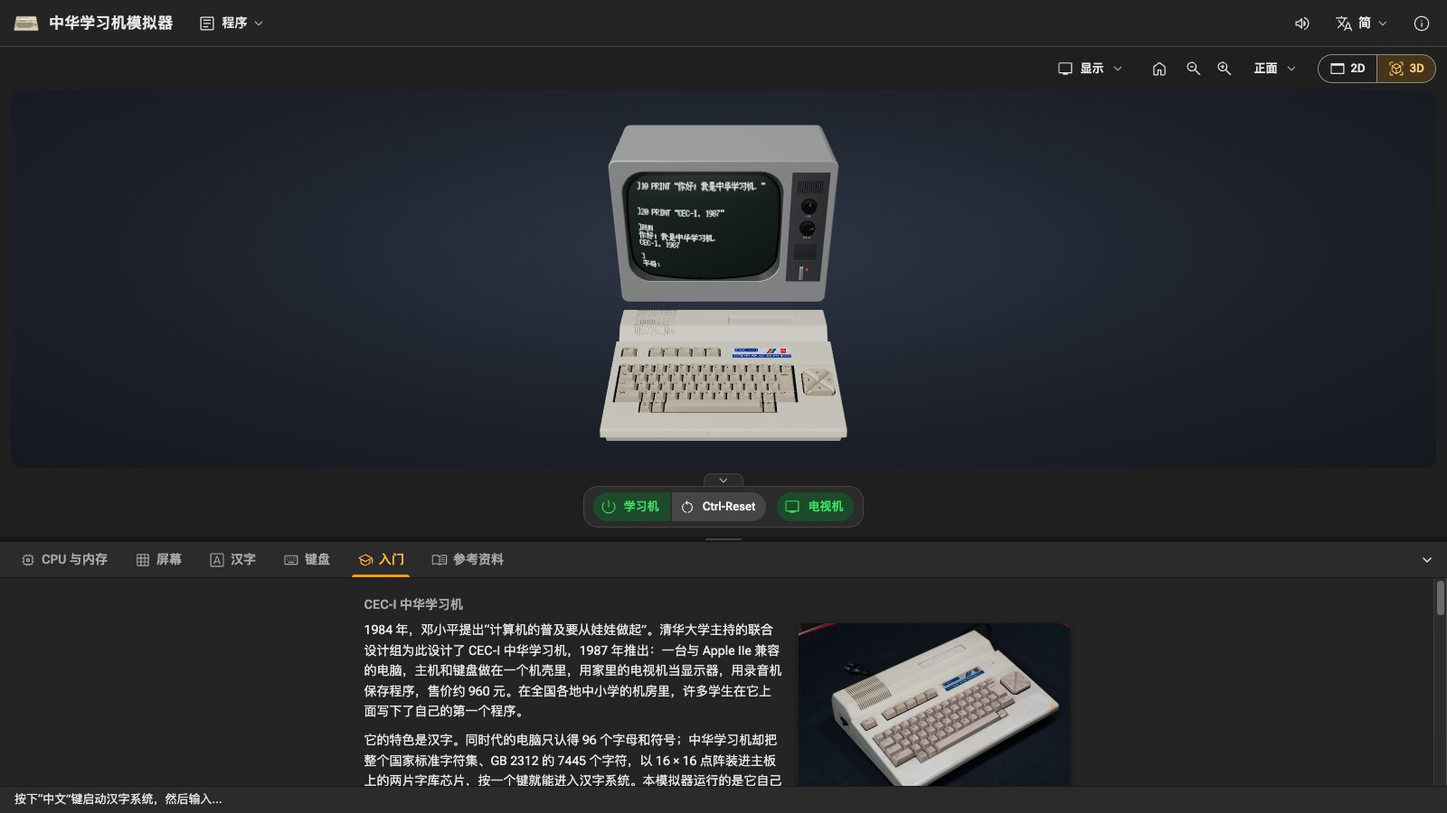
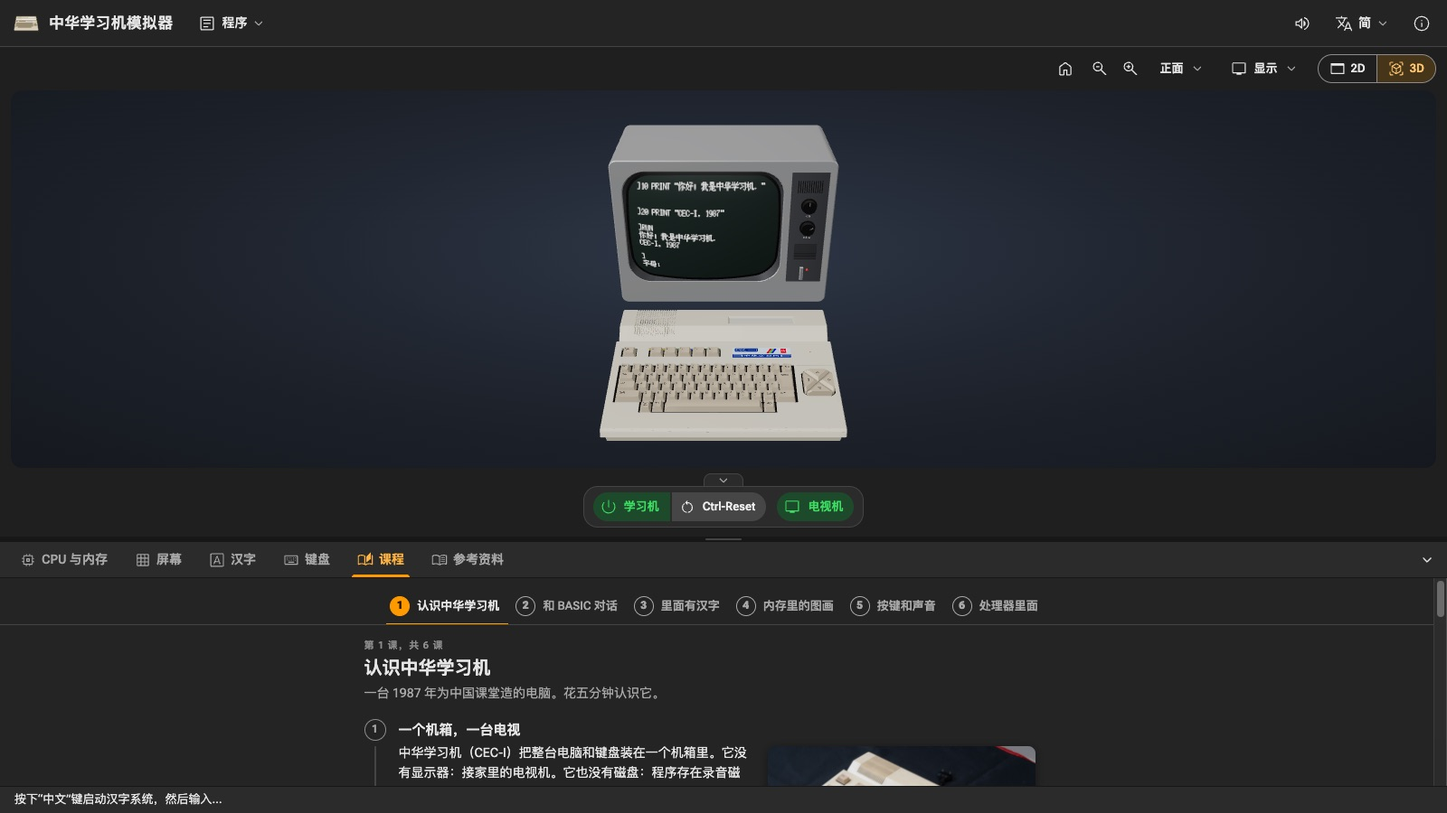
Lessons take the Start tab's place: its first minutes into Meet the CEC-I, its keys and Chinese input into References

Changed region(s): [[0.25, 0.6844, 0.75, 0.9644], [0.7188, 0.0622, 0.875, 0.0933]]

diff --git a/js/l10n/zh.js b/js/l10n/zh.js
@@ -95,7 +95,6 @@ export default {
   "strip.unfold": "展开辅助按钮条",
 
   // the dock
-  "dock.start": "入门",
   "dock.lessons": "课程",
   "lessons.bar": "课程",
   "lessons.of": "第 {n} 课，共 {of} 课",
@@ -111,39 +110,12 @@ export default {
   "lessons.closeTool": "关闭",
   "lessons.typing": "正在输入这一步的内容…",
   "lessons.toolAway": "这个仪表现在在课程旁边。",
-  "start.lessons": "开始上课",
   "dock.refs": "参考资料",
   "dock.resize": "拖动以调整面板高度",
   "dock.fold": "收起面板",
   "dock.unfold": "展开面板",
   "dialog.close": "关闭",
 
-  // the Start tab
-  "start.what.head": "CEC-I 中华学习机",
-  "start.photo": "一台 1987 年的中华学习机，本模拟器就是照着它测量建模的。",
-  "start.photo.alt": "从左前方看中华学习机：米白色机壳，键盘与主机一体，蓝红色铭牌、方向键面板和散热格栅",
-  "start.what": "1984 年，邓小平提出“计算机的普及要从娃娃做起”。清华大学主持的联合设计组为此设计了 CEC-I 中华学习机，1987 年推出：一台与 Apple IIe 兼容的电脑，主机和键盘做在一个机壳里，用家里的电视机当显示器，用录音机保存程序，售价约 960 元。在全国各地中小学的机房里，许多学生在它上面写下了自己的第一个程序。",
-  "start.what.2": "它的特色是汉字。同时代的电脑只认得 96 个字母和符号；中华学习机却把整个国家标准字符集、GB 2312 的 7445 个字符，以 16 × 16 点阵装进主板上的两片字库芯片，按一个键就能进入汉字系统。本模拟器运行的是它自己的 ROM，取自一台能正常工作的学习机。",
-  "start.first.head": "开始的几分钟",
-  "start.first.1": "学习机和电视机已经打开：屏幕显示 `ZHONG HUA XUE XI JI` 和 `VERSION 1.1`，然后是 BASIC 的提示符 `]`。如果没有，请按学习机下方按钮条上的“学习机”和“电视机”。",
-  "start.first.2": "输入 `PRINT \"HELLO\"`，按 [[Return]]（你键盘上的 [[Enter]]），学习机就会回答。",
-  "start.first.3": "按学习机的“中文”键（[[Page Up]] 或 [[Alt]]-[[Z]]）：汉字系统启动，屏幕换成汉字屏幕。“西文”键（[[Page Down]] 或 [[Alt]]-[[X]]）返回。",
-  "start.first.4": "写汉字：程序 ▸ 输入文字，粘贴 `10 PRINT \"你好，中华学习机\"` 和一行 `RUN`，再点“输入”。看着键盘把它打进去。",
-  "start.first.5": "用“学习机”按钮关机，再在 3D 视角菜单中选“拆开”：上盖、键盘和主板会按真实的顺序拆下来。",
-  "start.keys.head": "学习机的键在你的键盘上",
-  "start.keys.intro": "你的键盘就是学习机的键盘：字母、数字和符号都在原位，学习机特有的键放在电脑上多余的键上：",
-  "start.keys.machine": "中华学习机",
-  "start.keys.yours": "你的键盘",
-  "start.keys.or": "或者",
-  "start.keys.ctrl": "Ctrl-Reset（回到 BASIC，程序保留）是 [[Ctrl]]-[[F12]]；按住 [[Ctrl]] 和 [[End]] 再按 [[F12]] 是 Ctrl-Reset-TEST，即学习机的自检。在学习机的键上点击 Ctrl、Shift 和 TEST，它们会保持按下，直到按下一个键。",
-  "start.chinese.head": "八位机上的汉字",
-  "start.chinese.1": "在汉字状态下，[[F1]] 输入字母，[[F2]] 是拼音（输入音节，状态行上出现六个字，按数字选字；`<` 和 `>` 翻页），[[F3]] 是区位码：四位数字，即在 GB 2312 中的区号和位号，`1601` 是“啊”。",
-  "start.chinese.2": "在 BASIC 字符串里，一个汉字占三个字节：127，然后是区号和位号，各自错开 `\"`、`,` 和 `:` 三个字符。`LEN(\"中\")` 等于 3。",
-  "start.chinese.3": "回到西文状态，同一个字符串列出来是棋盘格和字母：`中` 是 `▒UO`。",
-  "start.chinese.4": "汉字屏幕就是高分辨率图形页，10 行，每行 17 个字，每个字都从字库芯片中按 16 × 16 点阵取出来画上去。",
-  "start.more.head": "使用手册",
-  "start.more": "学习机的四本书（用户使用手册、软件与硬件技术参考手册，以及一本讲原理和维修的书）已在 cec-i-docs 项目中整理成数字版：",
-  "start.more.link": "用户使用手册",
 
   // About
   "about.title": "关于",
@@ -165,6 +137,16 @@ export default {
   "about.close": "关闭",
 
   // References
+  "refs.keys": "学习机的键在你的键盘上",
+  "refs.keys.intro": "你的键盘就是学习机的键盘：字母、数字和符号都在原位，学习机特有的键放在电脑上多余的键上：",
+  "refs.keys.machine": "中华学习机",
+  "refs.keys.yours": "你的键盘",
+  "refs.keys.or": "或者",
+  "refs.keys.ctrl": "Ctrl-Reset（回到 BASIC，程序保留）是 [[Ctrl]]-[[F12]]；按住 [[Ctrl]] 和 [[End]] 再按 [[F12]] 是 Ctrl-Reset-TEST，即学习机的自检。在学习机的键上点击 Ctrl、Shift 和 TEST，它们会保持按下，直到按下一个键。",
+  "refs.chinese": "八位机上的汉字",
+  "refs.chinese.1": "在汉字状态下，[[F1]] 输入字母，[[F2]] 是拼音（输入音节，状态行上出现六个字，按数字选字；`<` 和 `>` 翻页），[[F3]] 是区位码：四位数字，即在 GB 2312 中的区号和位号，`1601` 是“啊”。",
+  "refs.chinese.2": "在西文状态下列出程序，汉字字符串显示成棋盘格和字母，一个字三个字节：`中` 是 `▒UO`。",
+  "refs.chinese.3": "汉字屏幕就是高分辨率图形页，10 行，每行 17 个字，每个字都从字库芯片中按 16 × 16 点阵取出来画上去。",
   "refs.reading": "延伸阅读",
   "refs.read.docs": "中华学习机四本书的数字版（cec-i-docs）",
   "refs.read.manual": "《CEC-I 型中华学习机用户使用手册》（1988）",

diff --git a/js/l10n/en.js b/js/l10n/en.js
@@ -96,7 +96,6 @@ export default {
   "strip.unfold": "Show the helper strip",
 
   // the dock
-  "dock.start": "Start",
   "dock.lessons": "Lessons",
   "lessons.bar": "The lessons",
   "lessons.of": "Lesson {n} of {of}",
@@ -112,39 +111,12 @@ export default {
   "lessons.closeTool": "Close",
   "lessons.typing": "Typing the step's line in…",
   "lessons.toolAway": "This instrument is beside the lesson now.",
-  "start.lessons": "Begin the lessons",
   "dock.refs": "References",
   "dock.resize": "Drag to resize the dock",
   "dock.fold": "Fold the dock",
   "dock.unfold": "Open the dock",
   "dialog.close": "Close",
 
-  // the Start tab
-  "start.what.head": "The CEC-I 中华学习机",
-  "start.photo": "A CEC-I of 1987, the machine this simulator was measured from.",
-  "start.photo.alt": "The CEC-I from the front left: an off-white case with its keyboard built in, a blue and red nameplate, an arrow-key panel and a grille",
-  "start.what": "In 1984 Deng Xiaoping said that the popularisation of computers should start with children. In answer, a design group led by Tsinghua University made the CEC-I, the China Educational Computer, launched in 1987: an Apple IIe compatible built into one box with its keyboard, using a home TV as its screen and a cassette recorder to keep programs, for about 960 yuan. In school computer rooms across China, students wrote their first programs on it.",
-  "start.what.2": "Its own idea is Chinese. A computer of the time knew 96 letters and signs; the CEC-I carries the whole national character set, GB 2312's 7,445 characters, as 16 × 16 dots in two font chips on its main board, and a Chinese system that starts at the press of a key. This simulator runs its own ROMs, those of a working machine.",
-  "start.first.head": "Your first minutes",
-  "start.first.1": "The computer and the TV are on: the screen shows `ZHONG HUA XUE XI JI` and `VERSION 1.1`, then BASIC's prompt `]`. If not, press Computer and TV on the strip under the machine.",
-  "start.first.2": "Type `PRINT \"HELLO\"` and press [[Return]] (your [[Enter]]). The computer answers.",
-  "start.first.3": "Press the machine's 中文 key ([[Page Up]], or [[Alt]]-[[Z]]): the Chinese system starts, and the screen turns to its own. 西文 ([[Page Down]], or [[Alt]]-[[X]]) goes back.",
-  "start.first.4": "Write Chinese: Programs ▸ Type in, paste `10 PRINT \"你好，中华学习机\"` and a line `RUN`, then Type it in. Watch the keys type it.",
-  "start.first.5": "Switch it off with Computer, and choose Taken apart from the views (3D): the lid, the keyboard and the main board come out in the real order.",
-  "start.keys.head": "The machine's keys on yours",
-  "start.keys.intro": "Your keyboard is the CEC-I's: letters, digits and signs where they are, and its own keys on keys a PC has to spare:",
-  "start.keys.machine": "The CEC-I",
-  "start.keys.yours": "Your keyboard",
-  "start.keys.or": "Or",
-  "start.keys.ctrl": "Ctrl-Reset (back to BASIC, the program kept) is [[Ctrl]]-[[F12]]; hold [[Ctrl]] and [[End]] and press [[F12]] for Ctrl-Reset-TEST, the machine's self-test. Ctrl, Shift and TEST clicked on the machine's own keys stay down for the next key.",
-  "start.chinese.head": "Chinese on an 8-bit machine",
-  "start.chinese.1": "In Chinese mode, [[F1]] types letters, [[F2]] pinyin (type the syllable, then a digit picks one of six characters shown on the status line; `<` and `>` page), [[F3]] 区位 (quwei): four digits, the row and the place in GB 2312, `1601` for 啊.",
-  "start.chinese.2": "In a BASIC string a Chinese character is three bytes: 127, then its row and its place, each moved past `\"`, `,` and `:`. `LEN(\"中\")` is 3.",
-  "start.chinese.3": "Back in Western mode, the same string lists as checkerboards and letters: `中` is `▒UO`.",
-  "start.chinese.4": "The Chinese screen is the hi-res page, 10 lines of 17 characters, each drawn from the font chips 16 × 16 dots at a time.",
-  "start.more.head": "The manuals",
-  "start.more": "The machine's four books (the user manual, the software and hardware references, and a book on its principles and repair) are transcribed in the cec-i-docs project:",
-  "start.more.link": "the user manual",
 
   // About
   "about.title": "About",
@@ -166,6 +138,16 @@ export default {
   "about.close": "Close",
 
   // References
+  "refs.keys": "The machine's keys on yours",
+  "refs.keys.intro": "Your keyboard is the CEC-I's: letters, digits and signs where they are, and its own keys on keys a PC has to spare:",
+  "refs.keys.machine": "The CEC-I",
+  "refs.keys.yours": "Your keyboard",
+  "refs.keys.or": "Or",
+  "refs.keys.ctrl": "Ctrl-Reset (back to BASIC, the program kept) is [[Ctrl]]-[[F12]]; hold [[Ctrl]] and [[End]] and press [[F12]] for Ctrl-Reset-TEST, the machine's self-test. Ctrl, Shift and TEST clicked on the machine's own keys stay down for the next key.",
+  "refs.chinese": "Chinese on an 8-bit machine",
+  "refs.chinese.1": "In Chinese mode, [[F1]] types letters, [[F2]] pinyin (type the syllable, then a digit picks one of six characters shown on the status line; `<` and `>` page), [[F3]] 区位 (quwei): four digits, the row and the place in GB 2312, `1601` for 啊.",
+  "refs.chinese.2": "In a listing in Western mode, a Chinese string shows as checkerboards and letters, its three bytes a character: `中` is `▒UO`.",
+  "refs.chinese.3": "The Chinese screen is the hi-res page, 10 lines of 17 characters, each drawn from the font chips 16 × 16 dots at a time.",
   "refs.reading": "Further reading",
   "refs.read.docs": "The CEC-I's four books, transcribed (cec-i-docs)",
   "refs.read.manual": "The CEC-I user manual (1988), in Chinese",

diff --git a/js/l10n/lessons.en.js b/js/l10n/lessons.en.js
@@ -8,15 +8,16 @@ export default {
   "lesson.meet.title": "Meet the CEC-I",
   "lesson.meet.lead": "A computer from 1987, made for China's classrooms. Five minutes to get to know it.",
   "lesson.meet.machine.title": "One box, and a TV",
-  "lesson.meet.machine.text": "The CEC-I (中华学习机) is a whole computer in one box with its keyboard. There is no screen: you plug it into a home TV. There is no disk either: programs were kept on cassette tapes.",
-  "lesson.meet.machine.more": "In 1987 it cost about 960 yuan, a few months' pay. Schools bought it by the roomful: for many Chinese students it was the first computer they ever touched.",
+  "lesson.meet.machine.text": "The CEC-I (中华学习机), the China Educational Computer, is a whole computer in one box with its keyboard. There is no screen: you plug it into a home TV. There is no disk either: programs were kept on cassette tapes.",
+  "lesson.meet.machine.more": "In 1984 Deng Xiaoping said that computers should start with children. A design group led by Tsinghua University answered with the CEC-I, launched in 1987 for about 960 yuan, a few months' pay. Schools bought it by the roomful: for many Chinese students it was the first computer they touched. It is an Apple IIe compatible, and this simulator runs its own ROMs, from a working machine.",
   "lesson.meet.on.title": "Switch on",
-  "lesson.meet.on.text": "Press **Ctrl-Reset** (in the strip under the machine, or Ctrl and F12). A beep, `ZHONG HUA XUE XI JI`, and then `]`: BASIC is waiting for you. There is no desktop and no mouse: you talk to it by typing.",
+  "lesson.meet.on.text": "Press **Ctrl-Reset** (in the strip under the machine, or Ctrl and F12; if the screen is dark, press **Computer** and **TV** there first). A beep, `ZHONG HUA XUE XI JI`, and then `]`: BASIC is waiting for you. There is no desktop and no mouse: you talk to it by typing.",
+  "lesson.meet.on.more": "Your keyboard is the CEC-I's: letters, digits and signs where they are, and the machine's own keys, such as 中文 and Ctrl-Reset, on keys a PC has to spare. References lists them.",
   "lesson.meet.tv.title": "The TV is the screen",
   "lesson.meet.tv.text": "40 letters across, 24 lines down. Try **Display** above the picture: the same computer on a colour TV, a black-and-white TV or a green monitor, whatever a school had.",
   "lesson.meet.inside.title": "Look inside",
   "lesson.meet.inside.text": "One board does everything. The chips **light up** as they work: the 6502 processor, the memory, and two big **font chips** holding every Chinese character the computer can show.",
-  "lesson.meet.inside.more": "The 6502 is the same kind of processor as in the Apple II and early game consoles. It does about a million simple steps a second; your phone does billions.",
+  "lesson.meet.inside.more": "The 6502 is the same kind of processor as in the Apple II and early game consoles. It does about a million simple steps a second; your phone does billions. Switch the computer off and choose **Taken apart** from the views: the lid, the keyboard and the main board come out in the real order.",
   "lesson.meet.play.title": "Play first",
   "lesson.meet.play.text": "Programs were typed in from magazines and books. Let the simulator type one for you, and play: steer with the arrows.",
 

diff --git a/js/l10n/lessons.zh.js b/js/l10n/lessons.zh.js
@@ -7,14 +7,15 @@ export default {
   "lesson.meet.lead": "一台 1987 年为中国课堂造的电脑。花五分钟认识它。",
   "lesson.meet.machine.title": "一个机箱，一台电视",
   "lesson.meet.machine.text": "中华学习机（CEC-I）把整台电脑和键盘装在一个机箱里。它没有显示器：接家里的电视机。它也没有磁盘：程序存在录音磁带上。",
-  "lesson.meet.machine.more": "1987 年它卖大约 960 元，是好几个月的工资。学校成批地买来装满机房：对许多中国学生来说，这是他们摸到的第一台电脑。",
+  "lesson.meet.machine.more": "1984 年，邓小平提出“计算机的普及要从娃娃做起”。清华大学主持的设计组为此设计了中华学习机，1987 年推出，售价约 960 元，是好几个月的工资。学校成批地买来装满机房：对许多中国学生来说，这是他们摸到的第一台电脑。它与 Apple IIe 兼容；本模拟器运行的是它自己的 ROM，取自一台能正常工作的学习机。",
   "lesson.meet.on.title": "开机",
-  "lesson.meet.on.text": "按 **Ctrl-Reset**（机器下方按钮条上的按钮，或 Ctrl 加 F12）。“嘀”的一声，`ZHONG HUA XUE XI JI`，然后是 `]`：BASIC 在等你。没有桌面，也没有鼠标：你要靠打字和它说话。",
+  "lesson.meet.on.text": "按 **Ctrl-Reset**（机器下方按钮条上的按钮，或 Ctrl 加 F12；如果屏幕是黑的，先按那里的 **学习机** 和 **电视机**）。“嘀”的一声，`ZHONG HUA XUE XI JI`，然后是 `]`：BASIC 在等你。没有桌面，也没有鼠标：你要靠打字和它说话。",
+  "lesson.meet.on.more": "你的键盘就是学习机的键盘：字母、数字和符号都在原位，学习机特有的键，比如“中文”和 Ctrl-Reset，放在电脑上多余的键上。“参考资料”里有完整的对照表。",
   "lesson.meet.tv.title": "电视就是屏幕",
   "lesson.meet.tv.text": "每行 40 个字母，共 24 行。试试画面上方的 **显示**：同一台电脑接彩电、黑白电视或绿色显示器，学校有什么就接什么。",
   "lesson.meet.inside.title": "打开看看",
   "lesson.meet.inside.text": "一块电路板包办一切。芯片工作时会**亮起来**：6502 处理器、内存，还有两块大大的**字库芯片**，里面装着它能显示的每一个汉字。",
-  "lesson.meet.inside.more": "6502 和 Apple II、早期游戏机用的是同一种处理器。它每秒做大约一百万个简单步骤；你的手机每秒做几十亿个。",
+  "lesson.meet.inside.more": "6502 和 Apple II、早期游戏机用的是同一种处理器。它每秒做大约一百万个简单步骤；你的手机每秒做几十亿个。关掉学习机，在视角菜单中选 **拆开**：上盖、键盘和主板会按真实的顺序拆下来。",
   "lesson.meet.play.title": "先玩一下",
   "lesson.meet.play.text": "那时的程序是从杂志和书上一个字一个字敲进去的。让模拟器替你敲一个，然后玩：用方向键操纵。",
 

diff --git a/css/style.css b/css/style.css
@@ -30,7 +30,7 @@ body {
   -webkit-tap-highlight-color: transparent;
 }
 [hidden] { display: none !important; }
-.start, .references, .dialog-body, #status { user-select: text; -webkit-user-select: text; }
+.references, .dialog-body, #status { user-select: text; -webkit-user-select: text; }
 button, input, select { font: inherit; color: inherit; }
 a { color: var(--link); }
 :focus-visible { outline: 2px solid var(--md-primary); outline-offset: 2px; }
@@ -326,23 +326,11 @@ button.region:focus-visible { outline: 2px solid var(--md-primary); outline-offs
 #stage-view.pointed::after { content: ""; position: absolute; inset: 0; z-index: 30; border-radius: inherit; pointer-events: none; animation: pointed 900ms var(--ease) forwards; }
 @keyframes pointed { 0%, 100% { box-shadow: inset 0 0 0 3px transparent; } 25%, 45% { box-shadow: inset 0 0 0 3px var(--md-primary); } }
 
-/* ---- the Start tab: one reading column down the middle of the dock, as the references ---- */
-.start { max-width: 780px; margin: 0 auto; padding: 4px 0 8px; line-height: 1.6; }
-.start h3 { margin: 16px 0 6px; font-size: 14px; font-weight: 600; color: var(--md-on-surface-variant); }
-.start h3:first-child { margin-top: 6px; }
-.start p { margin: 0 0 10px; }
-.start ol, .start ul { margin: 0 0 10px; padding-left: 22px; }
-.start li { margin: 3px 0; }
-.start code, .dialog-body code { padding: 0 4px; border-radius: var(--radius-xs); background: var(--md-well); font-size: 0.95em; }
-.start { container-type: inline-size; }
-.start figure { float: right; width: min(42%, 300px); margin: 4px 0 8px 18px; }
-.start figure img { display: block; width: 100%; border-radius: var(--radius-s); box-shadow: 0 2px 10px rgba(0, 0, 0, 0.4); }
-.start figcaption { margin-top: 6px; font-size: 12px; color: var(--md-outline); }
-.start h3 { clear: both; }
-@container (max-width: 560px) {
-  .start figure { float: none; width: auto; max-width: 420px; margin: 10px 0 4px; }
-}
-/* the keys: the machine's own, then the visitor's that reach it */
+/* ---- References' keys and Chinese: reading lists, code, the keys' table ---- */
+.references p { margin: 0 0 10px; }
+.references ul:not(.link-list):not(.plain-list) { margin: 0 0 10px; padding-left: 22px; }
+.references li { margin: 3px 0; }
+.references code, .dialog-body code { padding: 0 4px; border-radius: var(--radius-xs); background: var(--md-well); font-size: 0.95em; }
 .keymap { border-collapse: collapse; margin: 4px 0 12px; font-size: 13px; }
 .keymap th { text-align: left; font-weight: 600; color: var(--md-on-surface-variant); padding: 4px 16px 4px 0; border-bottom: 1px solid var(--md-outline-variant); }
 .keymap td { padding: 4px 16px 4px 0; border-bottom: 1px solid var(--md-outline-variant); }

diff --git a/js/app/references.js b/js/app/references.js
@@ -1,13 +1,29 @@
 // SPDX-License-Identifier: Apache-2.0
 //
 // The References tab (docs/ui-design.md, U6), in one column down the middle of the dock,
-// looked up rather than read in order: further reading first, what the simulator is built on,
-// its source; then what it simplifies, folded, for the few who want it. About's References
-// button opens it.
+// looked up rather than read in order: the machine's keys on the visitor's, how Chinese goes
+// in; further reading, what the simulator is built on, its source; then what it simplifies,
+// folded, for the few who want it. About's References button opens it.
+//
+// A message may mark code with `backticks` and a key with [[brackets]].
 
 import { t } from "../l10n/l10n.js";
+import { LEGEND } from "../sim/host-keys.js";
 import { el } from "../ui/components.js";
 import { REPO } from "./about.js";
+
+/**
+ * A message's text, its `code` and [[keys]] as elements.
+ * @param {string} text
+ * @returns {(Node | string)[]}
+ */
+export function rich(text) {
+  return text.split(/(`[^`]+`|\[\[[^\]]+\]\])/).filter(Boolean).map((part) => {
+    if (part.startsWith("`")) return el("code", { text: part.slice(1, -1) });
+    if (part.startsWith("[[")) return el("kbd", { text: part.slice(2, -2) });
+    return part;
+  });
+}
 
 /** @param {string} href @param {string} text */
 const link = (href, text) => el("a", { href, target: "_blank", rel: "noopener", text });
@@ -35,8 +51,19 @@ export class ReferencesTool {
   /** @param {HTMLElement} host */
   constructor(host) {
     const list = (/** @type {[string, string][]} */ items) => el("ul", { class: "link-list" }, items.map(([key, href]) => el("li", {}, [link(href, t(key))])));
+    const keys = el("table", { class: "keymap" }, [
+      el("thead", {}, [el("tr", {}, [el("th", { text: t("refs.keys.machine") }), el("th", { text: t("refs.keys.yours") }), el("th", { text: t("refs.keys.or") })])]),
+      el("tbody", {}, LEGEND.map(([machine, yours, alt]) => el("tr", {}, [el("td", {}, [el("kbd", { text: machine })]), el("td", {}, [el("kbd", { text: yours })]), el("td", {}, [el("kbd", { text: alt })])]))),
+    ]);
+    const chinese = el("ul", {}, Array.from({ length: 3 }, (_, i) => el("li", {}, rich(t(`refs.chinese.${i + 1}`)))));
     host.append(
       el("article", { class: "references" }, [
+        el("h3", { text: t("refs.keys") }),
+        el("p", {}, rich(t("refs.keys.intro"))),
+        keys,
+        el("p", {}, rich(t("refs.keys.ctrl"))),
+        el("h3", { text: t("refs.chinese") }),
+        chinese,
         el("h3", { text: t("refs.reading") }),
         list(READING),
         el("h3", { text: t("refs.credits") }),

diff --git a/index.html b/index.html
@@ -38,7 +38,6 @@
         "./js/app/references.js": "./js/app/references.js?v=0.0.4",
         "./js/app/selftest.js": "./js/app/selftest.js?v=0.0.4",
         "./js/app/stage.js": "./js/app/stage.js?v=0.0.4",
-        "./js/app/start.js": "./js/app/start.js?v=0.0.4",
         "./js/app/strip.js": "./js/app/strip.js?v=0.0.4",
         "./js/app/tools/cpu.js": "./js/app/tools/cpu.js?v=0.0.4",
         "./js/app/tools/hanzi.js": "./js/app/tools/hanzi.js?v=0.0.4",
@@ -127,14 +126,12 @@
           <button id="tab-screen" class="dock-tab" role="tab" aria-controls="pane-screen" type="button"><i data-icon="grid_on"></i><span data-l10n="dock.screen"></span></button>
           <button id="tab-hanzi" class="dock-tab" role="tab" aria-controls="pane-hanzi" type="button"><i data-icon="font_download"></i><span data-l10n="dock.hanzi"></span></button>
           <button id="tab-keyboard" class="dock-tab" role="tab" aria-controls="pane-keyboard" type="button"><i data-icon="keyboard"></i><span data-l10n="dock.keyboard"></span></button>
-          <button id="tab-start" class="dock-tab" role="tab" aria-controls="pane-start" type="button"><i data-icon="school"></i><span data-l10n="dock.start"></span></button>
           <button id="tab-lessons" class="dock-tab" role="tab" aria-controls="pane-lessons" type="button"><i data-icon="auto_stories"></i><span data-l10n="dock.lessons"></span></button>
           <button id="tab-refs" class="dock-tab" role="tab" aria-controls="pane-refs" type="button"><i data-icon="menu_book"></i><span data-l10n="dock.refs"></span></button>
         </div>
         <span class="spacer"></span>
         <button id="dock-fold" class="btn icon-only" type="button"></button>
       </div>
-      <div id="pane-start" class="dock-pane" role="tabpanel" aria-labelledby="tab-start"></div>
       <div id="pane-lessons" class="dock-pane" role="tabpanel" aria-labelledby="tab-lessons" hidden></div>
       <div id="pane-cpu" class="dock-pane" role="tabpanel" aria-labelledby="tab-cpu" hidden></div>
       <div id="pane-screen" class="dock-pane" role="tabpanel" aria-labelledby="tab-screen" hidden></div>

diff --git a/js/app/dock.js b/js/app/dock.js
@@ -9,9 +9,9 @@
 import { t } from "../l10n/l10n.js";
 import { icon, setTip, tabs } from "../ui/components.js";
 
-/** @typedef {"cpu" | "screen" | "keyboard" | "hanzi" | "start" | "lessons" | "refs"} ToolId */
-/** In the bar's order: the instruments, the CPU first, then the two of the picture (the screen, and Chinese on it), then the keyboard; then the reading, Start (the default) and References. */
-export const TOOLS = /** @type {ToolId[]} */ (["cpu", "screen", "hanzi", "keyboard", "start", "lessons", "refs"]);
+/** @typedef {"cpu" | "screen" | "keyboard" | "hanzi" | "lessons" | "refs"} ToolId */
+/** In the bar's order: the instruments, the CPU first, then the two of the picture (the screen, and Chinese on it), then the keyboard; then the reading, the Lessons (the default) and References. */
+export const TOOLS = /** @type {ToolId[]} */ (["cpu", "screen", "hanzi", "keyboard", "lessons", "refs"]);
 
 /** The dock's least open height, px. */
 const DOCK_MIN = 140;
@@ -54,7 +54,7 @@ export class Dock {
     this.height = 0;
     this.folded = saved.folded ?? window.innerHeight <= SHORT;
     /** @type {ToolId} */
-    this.current = saved.tab && TOOLS.includes(saved.tab) ? saved.tab : "start";
+    this.current = saved.tab && TOOLS.includes(saved.tab) ? saved.tab : "lessons";
     /** @private while the remembered tab is shown at the start */
     this.starting = false;
     /** Called when the dock changes size or folds. */

diff --git a/tests/l10n.test.js b/tests/l10n.test.js
@@ -20,7 +20,7 @@ const walk = (dir) =>
   readdirSync(join(ROOT, dir), { withFileTypes: true }).flatMap((e) => (e.isDirectory() ? walk(`${dir}/${e.name}`) : e.name.endsWith(".js") ? [`${dir}/${e.name}`] : []));
 
 /** The keys built at run time, by the prefix the code builds them from. */
-const FAMILIES = [/^lesson\./, /^sample\./, /^programs\.(learn|chinese|games|utilities|music|logo)$/, /^program\.mode\./, /^cpu\.follow\./, /^region\./, /^flag\./, /^screen\.(shows|kind)\./, /^view\.[a-z]+$/, /^stage\.(2d|3d)\.tip$/, /^unit\./, /^knob\.(brightness|colour)$/, /^knob\.colourNone\./, /^display\.(colour|bw|green)$/, /^menu\.display\.(colour|bw|green)$/, /^start\./];
+const FAMILIES = [/^lesson\./, /^sample\./, /^programs\.(learn|chinese|games|utilities|music|logo)$/, /^program\.mode\./, /^cpu\.follow\./, /^region\./, /^flag\./, /^screen\.(shows|kind)\./, /^view\.[a-z]+$/, /^stage\.(2d|3d)\.tip$/, /^unit\./, /^knob\.(brightness|colour)$/, /^knob\.colourNone\./, /^display\.(colour|bw|green)$/, /^menu\.display\.(colour|bw|green)$/, /^refs\.chinese\.\d$/];
 
 describe("every text is a message", () => {
   const code = [...walk("js"), "index.html"].filter((f) => !f.startsWith("js/l10n/")).map((f) => readFileSync(join(ROOT, f), "utf8")).join("\n");

diff --git a/js/app/main.js b/js/app/main.js
@@ -23,7 +23,6 @@ import { LessonsTool } from "./lessons.js";
 import { readLink, writeLink } from "./link.js";
 import { ReferencesTool } from "./references.js";
 import { Stage } from "./stage.js";
-import { StartTool } from "./start.js";
 import { CpuTool } from "./tools/cpu.js";
 import { HanziTool } from "./tools/hanzi.js";
 import { KeyboardTool } from "./tools/keyboard.js";
@@ -167,7 +166,6 @@ if (viewer) viewer.jumpTo(stage.framed("front"));
 // strip take some of it and the drawings need the rest
 const dock = new Dock(() => (matchMedia("(max-width: 700px)").matches ? Math.round(window.innerHeight * 0.55) : window.innerHeight <= 520 ? Math.round(window.innerHeight * 0.65) : 300));
 dock.onResize = fitStatus;
-new StartTool($("pane-start"), () => dock.show("lessons"));
 new ReferencesTool($("pane-refs"));
 const cpuTool = new CpuTool($("pane-cpu"), system);
 const screenTool = new ScreenTool($("pane-screen"), system);

diff --git a/js/app/selftest.js b/js/app/selftest.js
@@ -22,7 +22,7 @@ export async function selftest(system) {
       return text.includes("ZHONG HUA XUE XI JI");
     }],
     ["the 2D view has the machine's 69 keys", () => (/** @type {any} */ (document.getElementById("view2d"))?.querySelector("canvas.flat-keys") ?? null) !== null],
-    ["the dock has its tabs", () => document.querySelectorAll("#dock-tabs [role=tab]").length === 7],
+    ["the dock has its tabs", () => document.querySelectorAll("#dock-tabs [role=tab]").length === 6],
   ];
   /** @type {string[]} */
   const passed = [];

diff --git a/js/lessons/lessons.js b/js/lessons/lessons.js
@@ -74,7 +74,7 @@ export const LESSONS = [
     id: "meet",
     steps: [
       { id: "machine", photo: "cec-i-front-right.jpg", show: { mode: "3d", view: "front" }, more: true },
-      { id: "on", type: "{reset}", done: (s) => shows(s, /^\]/) },
+      { id: "on", type: "{reset}", done: (s) => shows(s, /^\]/), more: true },
       { id: "tv", show: { mode: "3d", view: "screen" } },
       { id: "inside", photo: "mainboard-top.jpg", show: { mode: "3d", view: "inside" }, more: true },
       { id: "play", program: "snake" },
